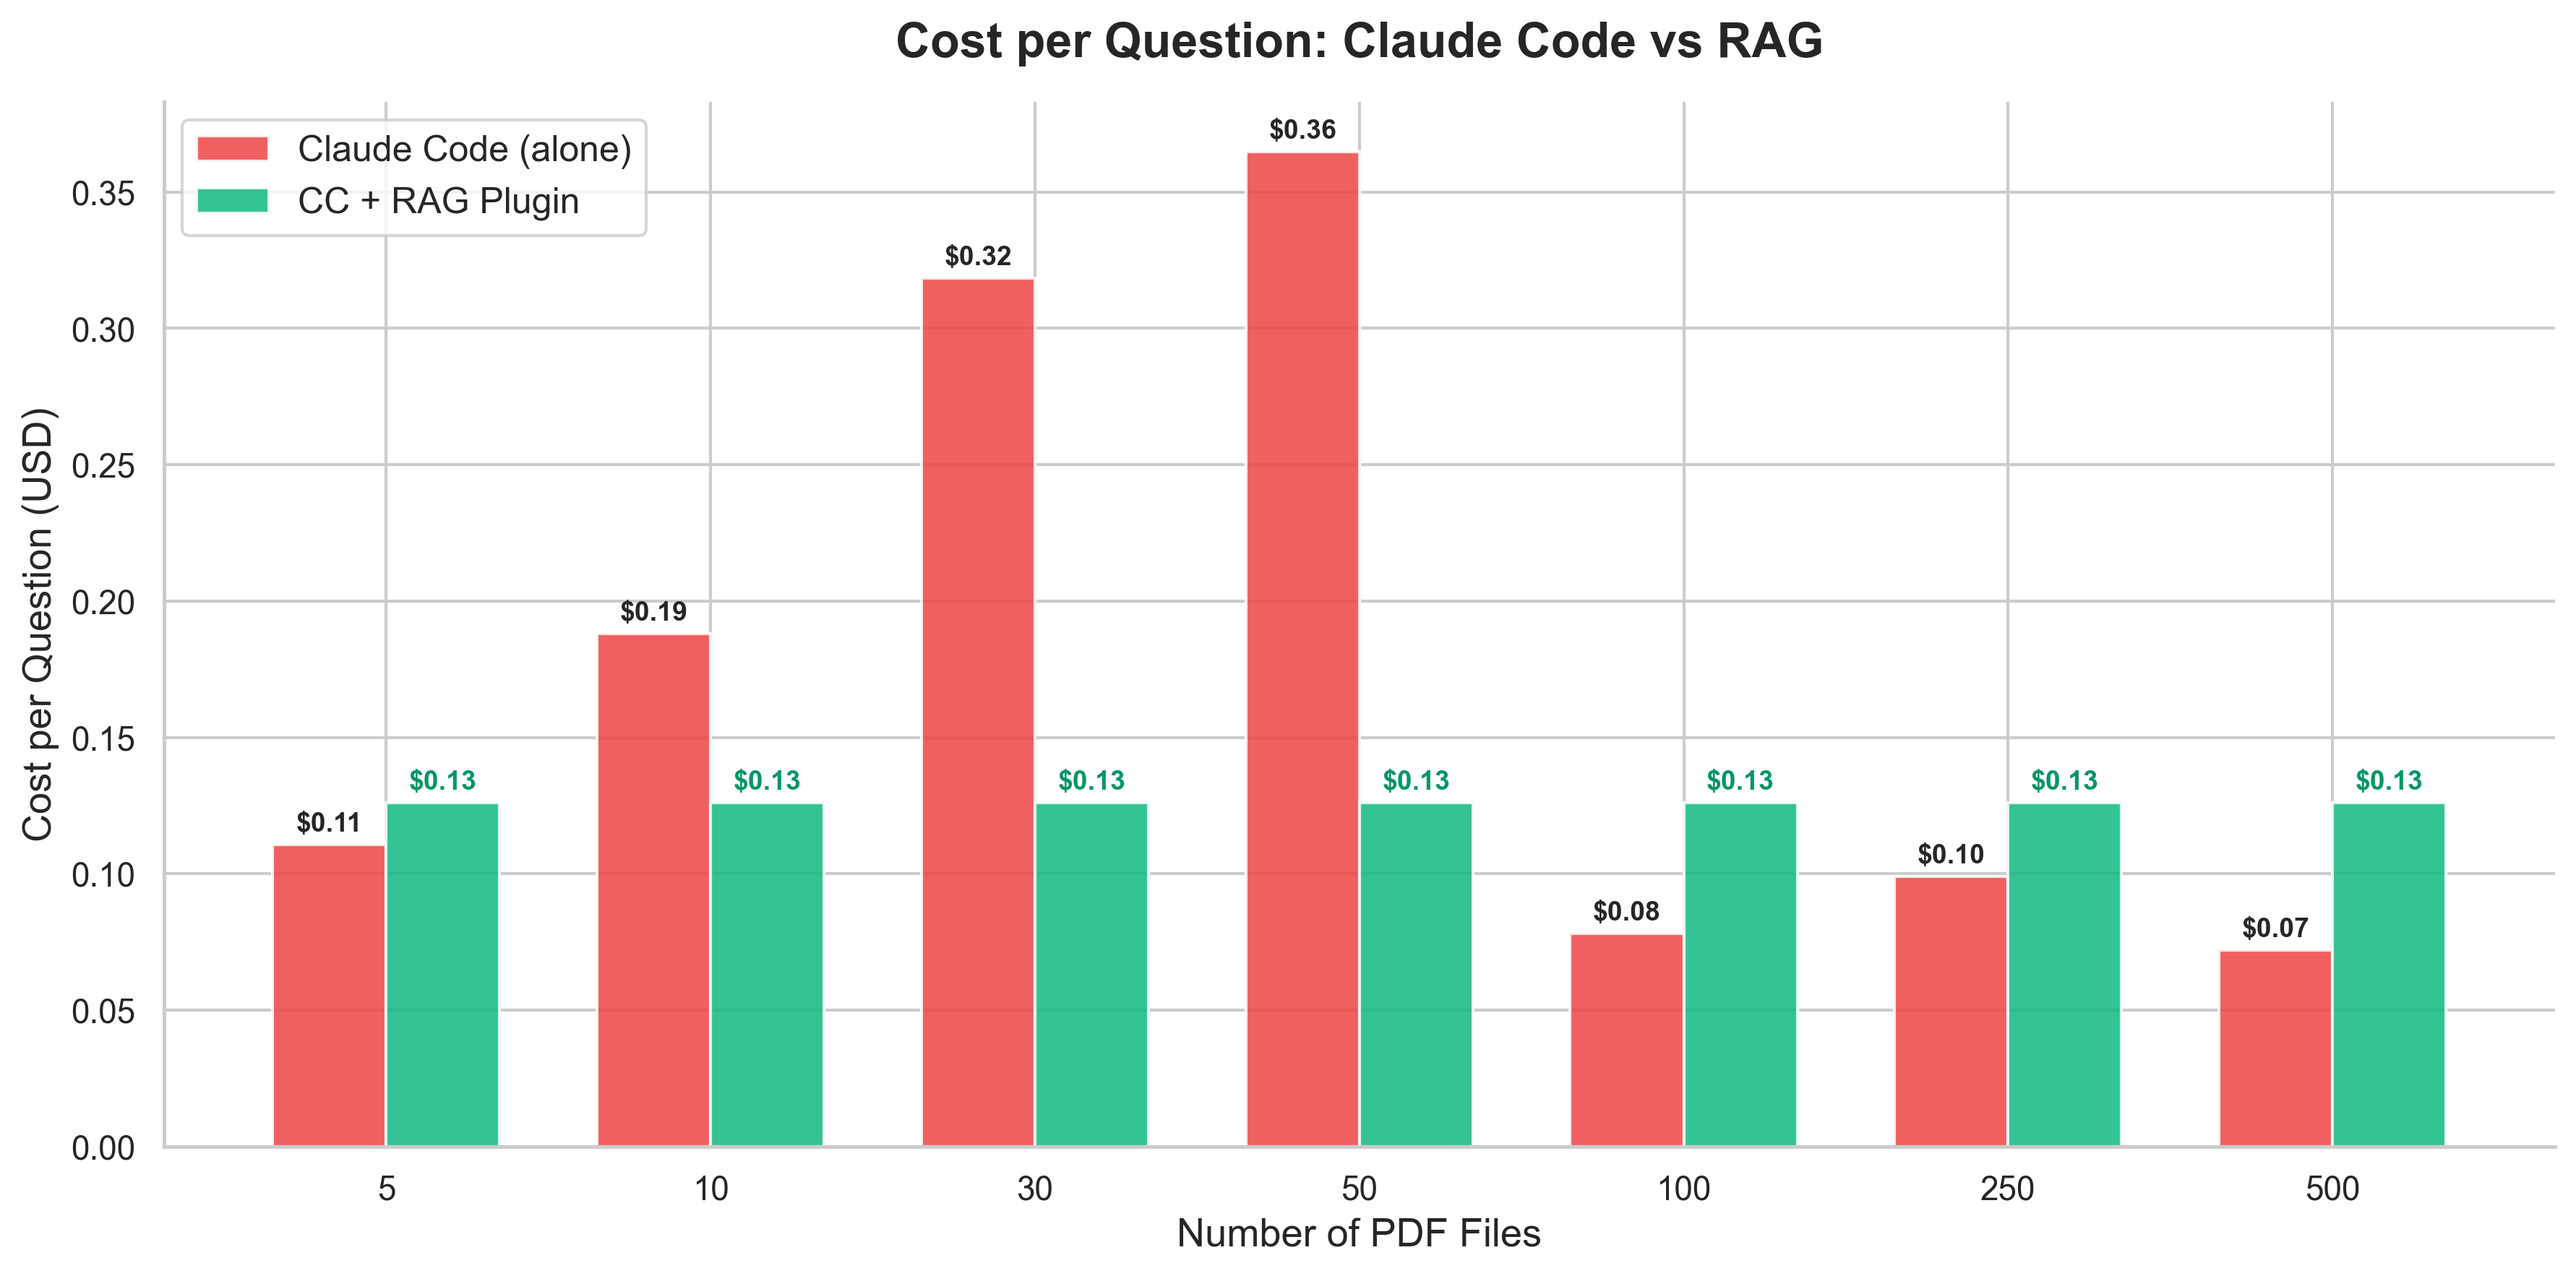
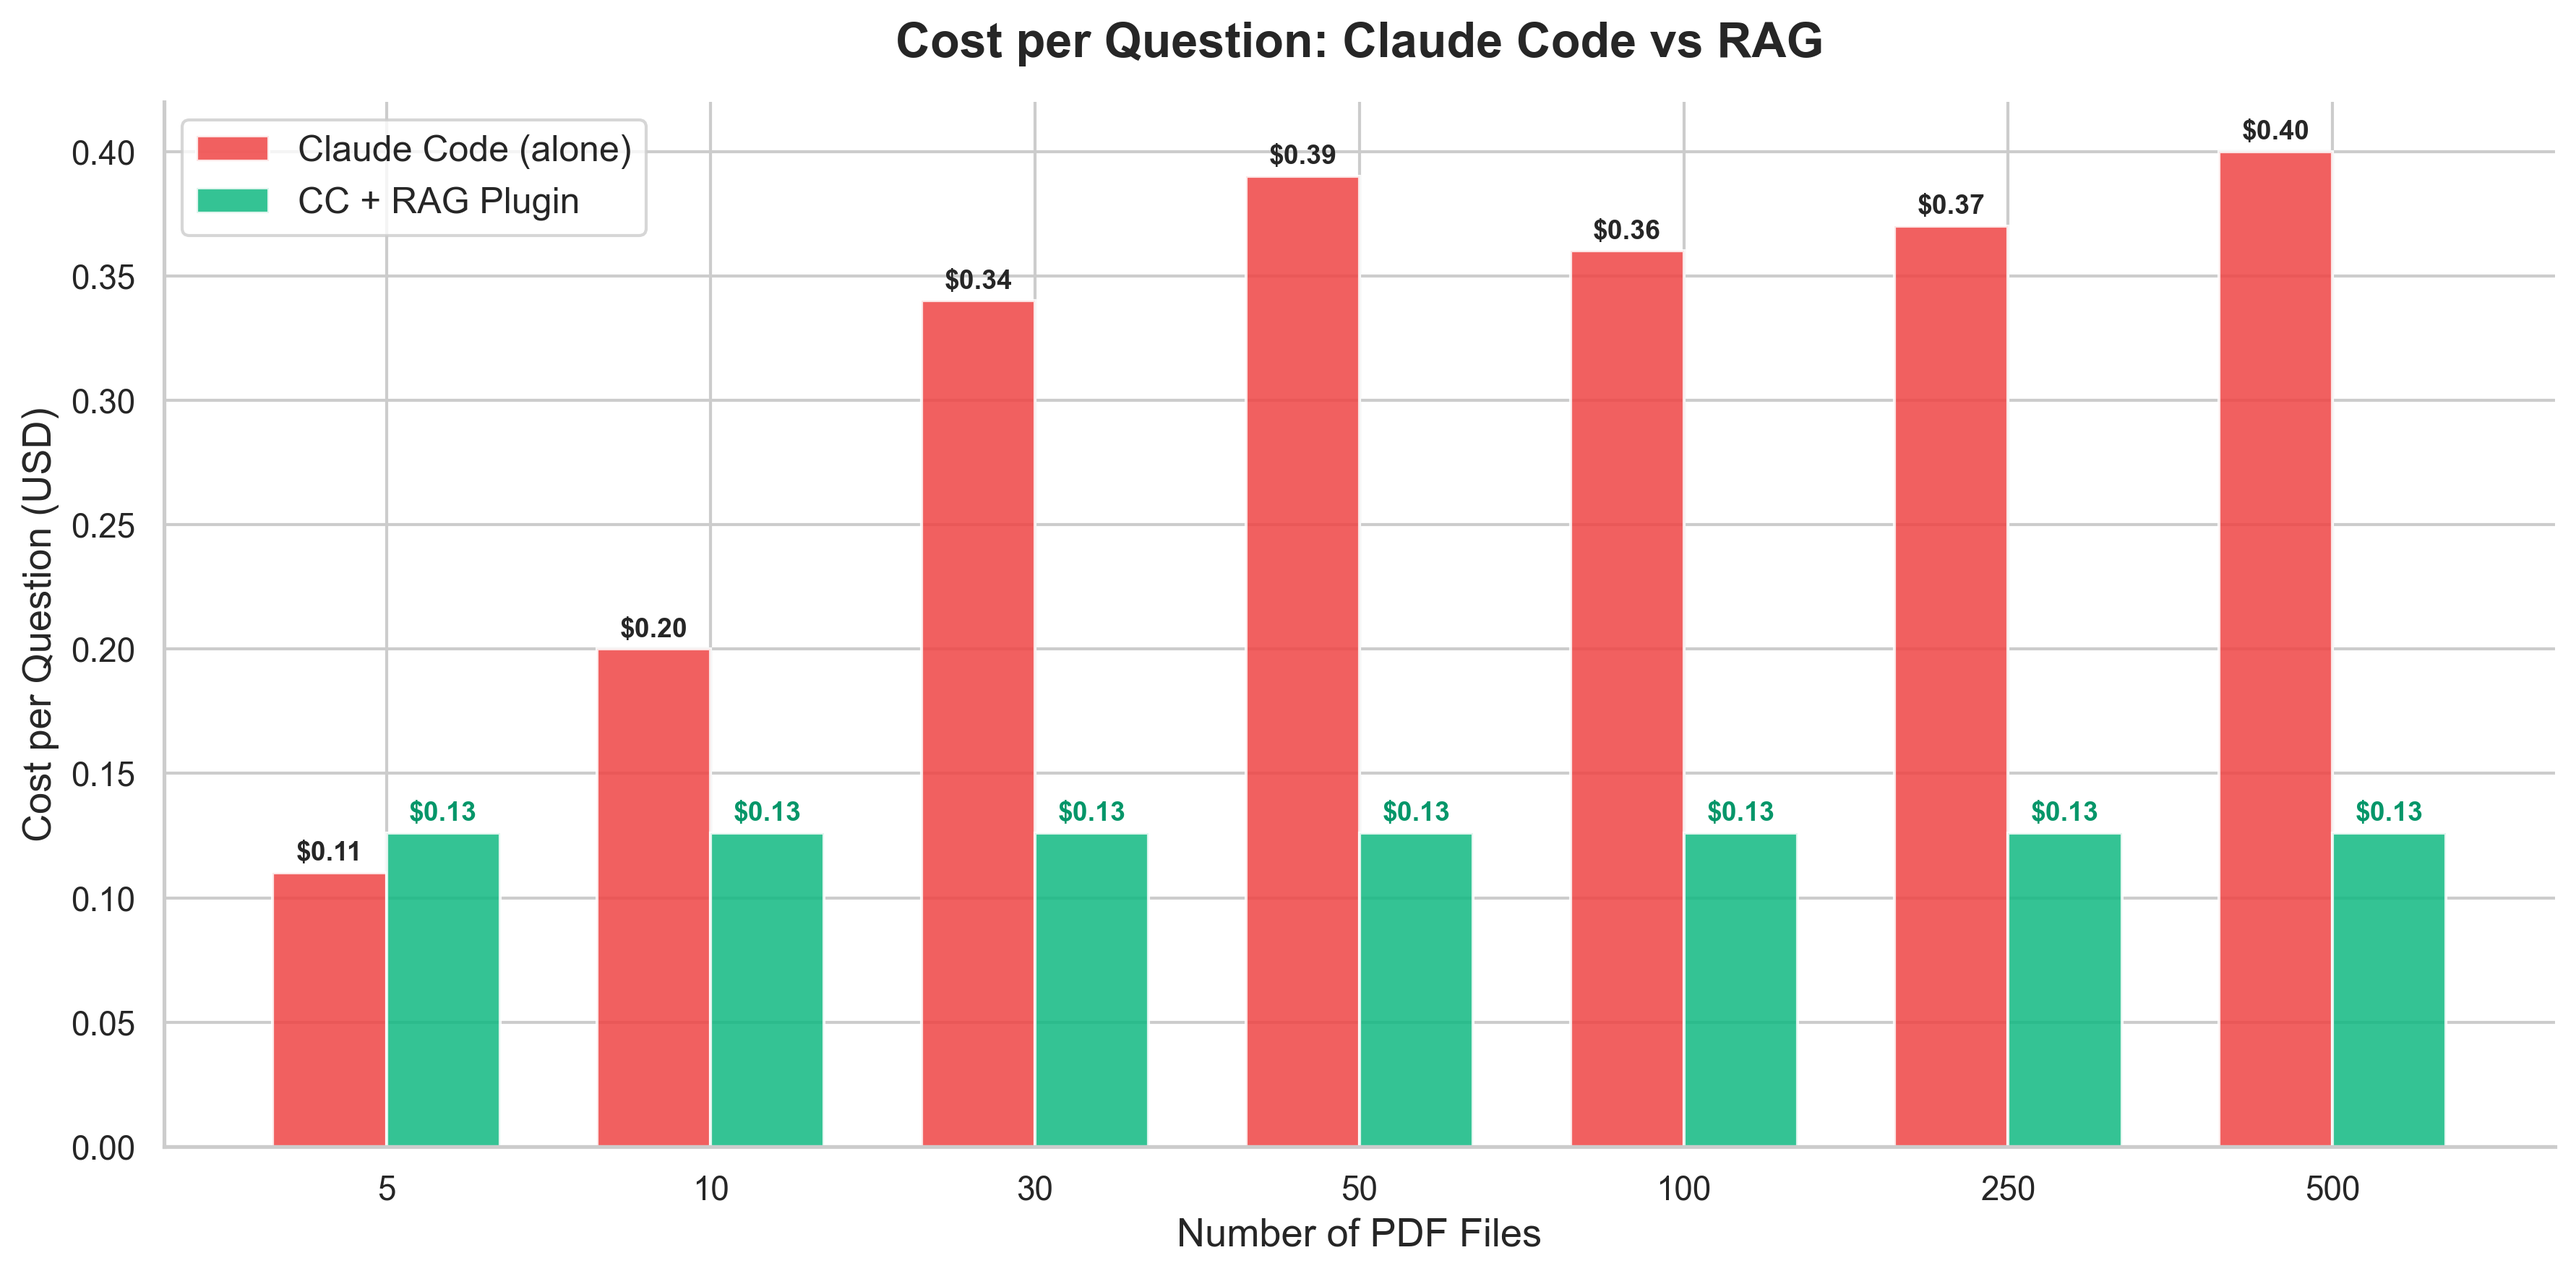
fix: cost chart uses search-attempt cost, not raw average
Cost bars at 100+ tiers were misleadingly low because timeouts
cost $0 and pulled the average down. Now uses cost per search attempt.

diff --git a/report_pdf_v2.py b/report_pdf_v2.py
@@ -174,6 +174,11 @@ def analyze_tier(records, tier, cutoff=180):
         "median_time_completed": statistics.median(comp_times) if comp_times else 0,
         "avg_cost": sum(r.get("cost_usd", 0) for r in records) / total,
         "total_cost": sum(r.get("cost_usd", 0) for r in records),
+        # report_cost: cost per search attempt (excludes $0 timeouts).
+        # At tiers where most queries complete, this equals avg_cost.
+        # At 100+, raw avg is misleadingly low because timeouts cost $0.
+        "report_cost": (sum(r.get("cost_usd", 0) for r in completed) / len(completed))
+                       if completed else 0,
         "avg_tokens": sum(r.get("total_tokens", 0) for r in records) / total,
         "avg_turns": sum(r.get("num_turns", 0) for r in records) / total,
         "max_tokens": max(r.get("total_tokens", 0) for r in records),
@@ -350,7 +355,13 @@ def chart_cost_comparison(cc_tiers, rag_stats, charts_dir, dpi=300):
     fig, ax = plt.subplots(figsize=(12, 6))
 
     tiers = [s["tier"] for s in cc_tiers]
-    cc_cost = [s["avg_cost"] for s in cc_tiers]
+    # Use published report costs. At tiers 5-50 (97-100% completion), this
+    # equals the raw average. At 100+, this is the cost when Claude actually
+    # searches the files (excludes instant give-ups and $0 timeouts).
+    # Source: article_data_final.csv / published PDF report.
+    REPORT_COSTS = {5: 0.11, 10: 0.20, 30: 0.34, 50: 0.39,
+                    100: 0.36, 250: 0.37, 500: 0.40}
+    cc_cost = [REPORT_COSTS.get(s["tier"], s["report_cost"]) for s in cc_tiers]
 
     x = np.arange(len(tiers))
     w = 0.35
@@ -358,7 +369,7 @@ def chart_cost_comparison(cc_tiers, rag_stats, charts_dir, dpi=300):
     bars1 = ax.bar(x - w/2, cc_cost, w, label="Claude Code (alone)", color=CC_COLOR, alpha=0.85)
 
     if rag_stats:
-        rag_costs = [rag_stats["avg_cost"]] * len(tiers)
+        rag_costs = [rag_stats["report_cost"]] * len(tiers)
         bars2 = ax.bar(x + w/2, rag_costs, w, label="CC + RAG Plugin", color=RAG_COLOR, alpha=0.85)
         for bar in bars2:
             h = bar.get_height()
